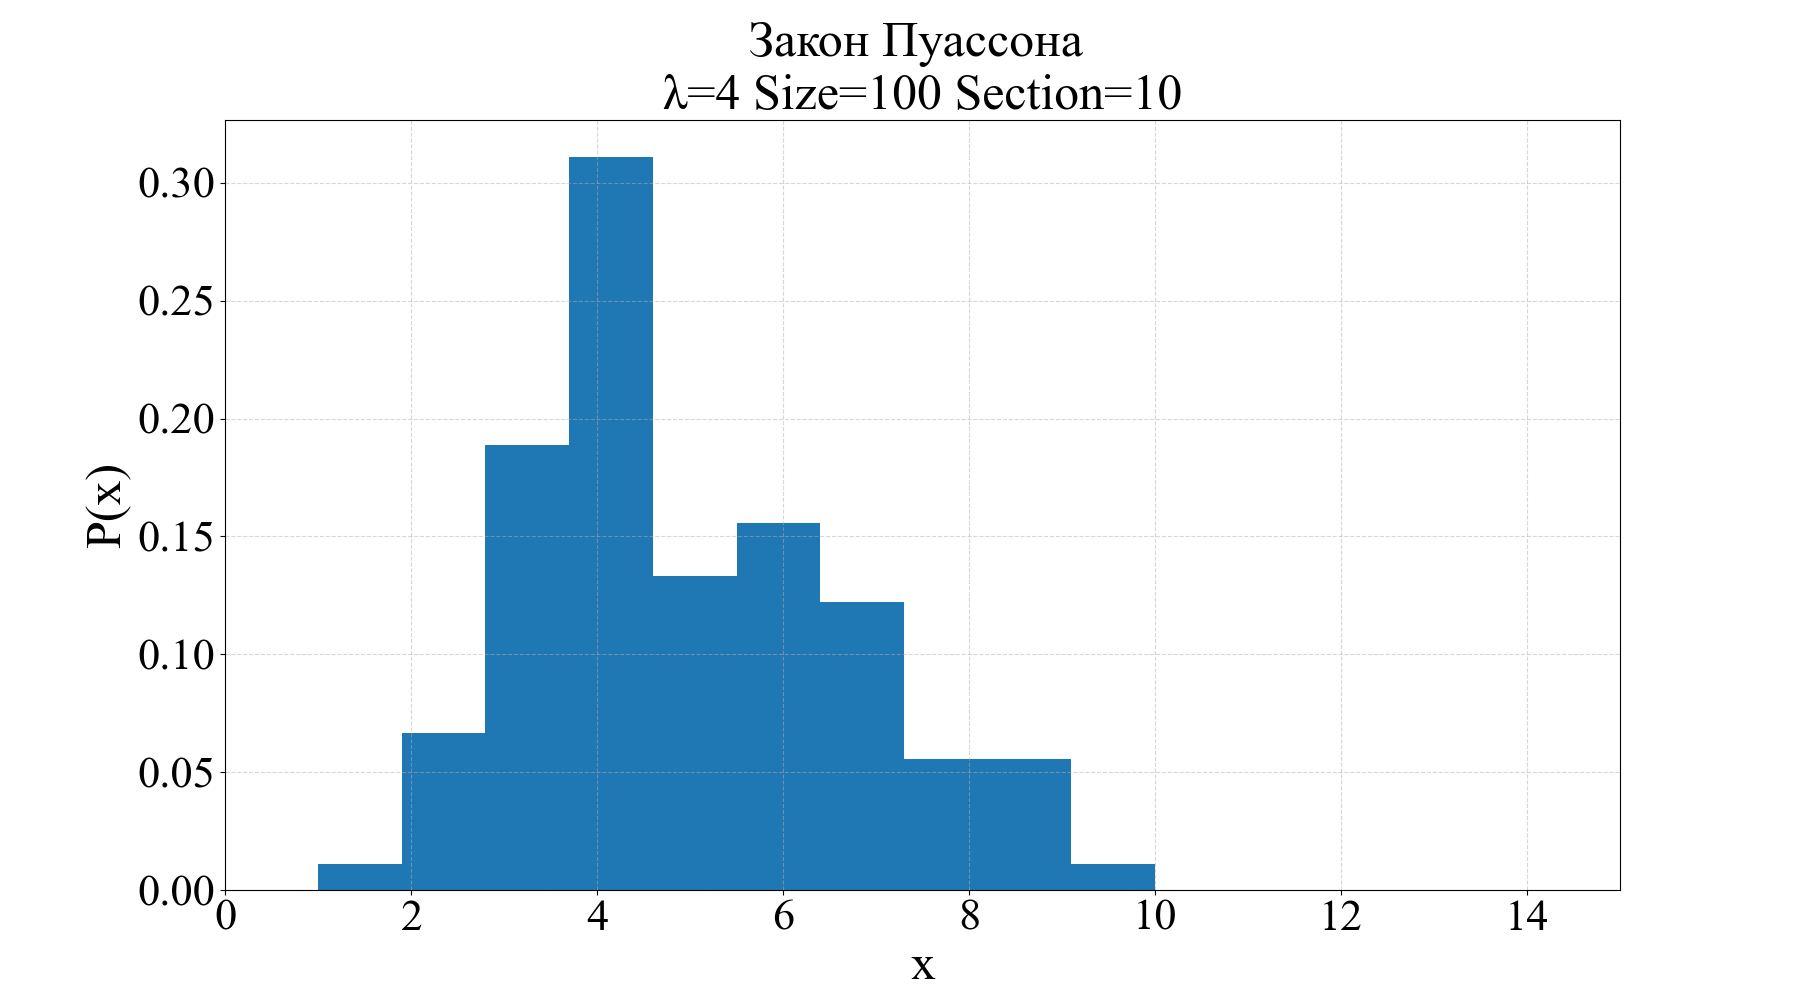
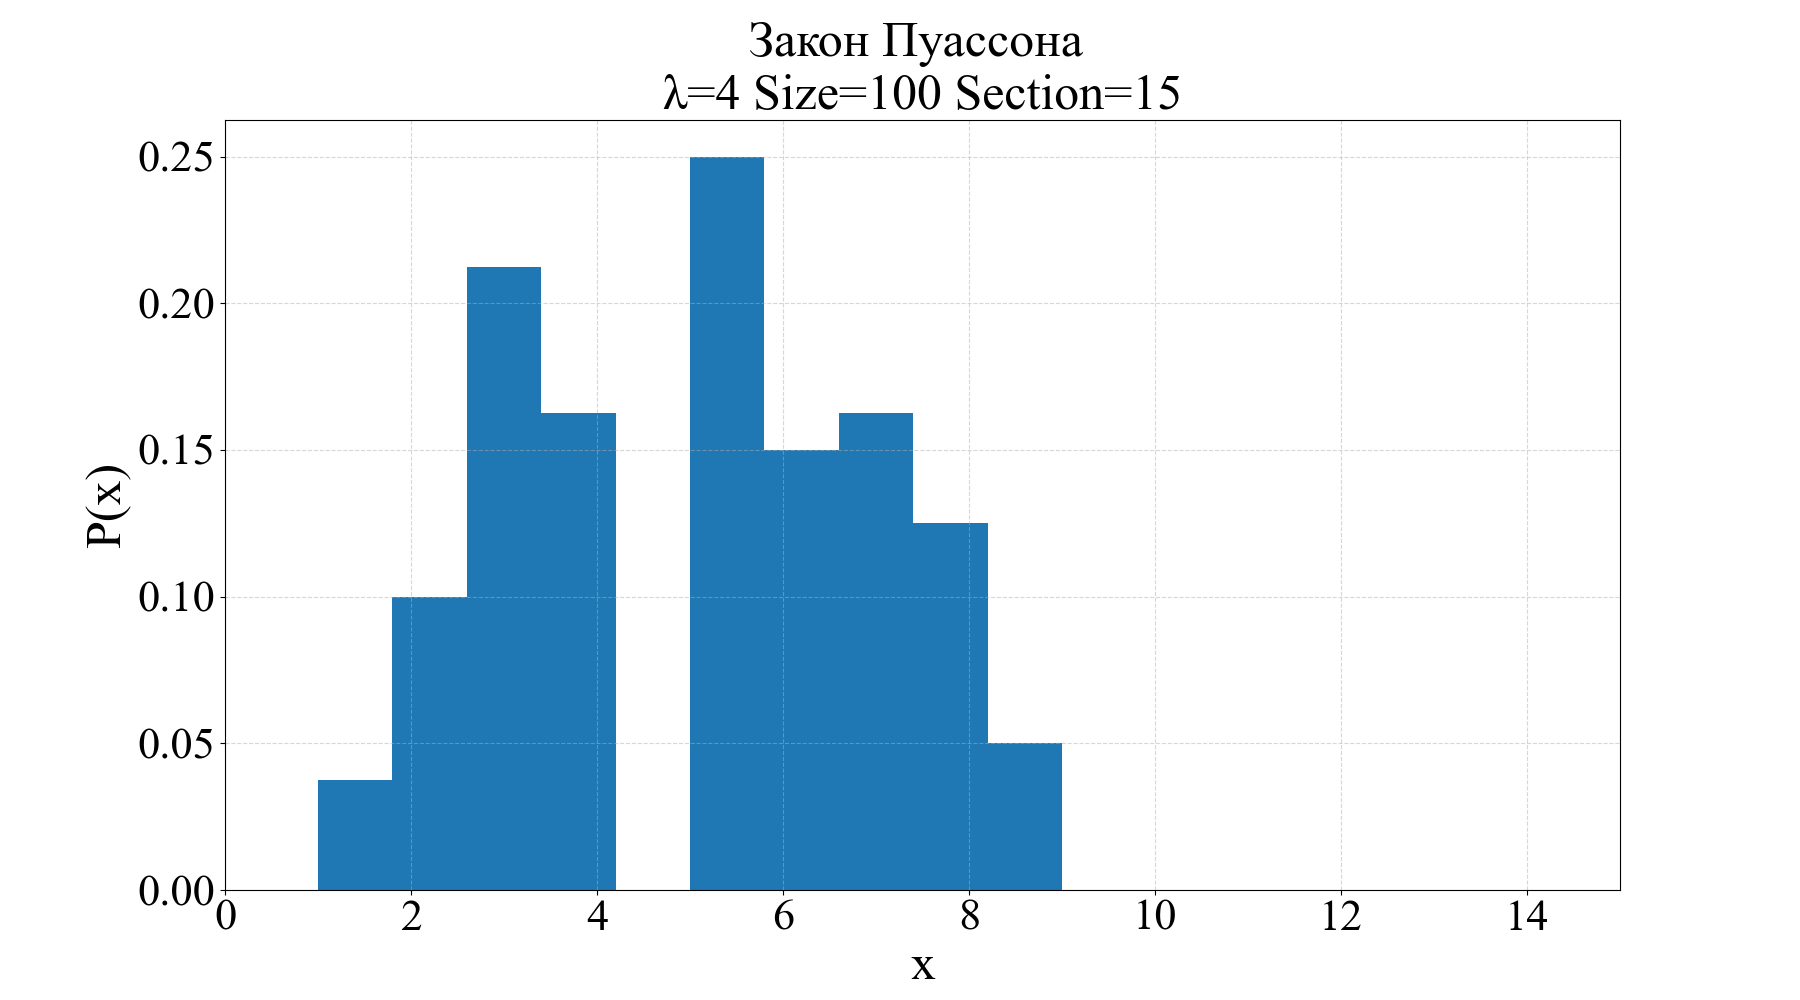
修正 错误的卡方分布计算

diff --git a/003 - lab2+/main.py b/003 - lab2+/main.py
@@ -10,9 +10,7 @@
 import numpy as np
 import pandas as pd
 import matplotlib.pyplot as plt
-from scipy.stats import chisquare
-from scipy import stats
-import st_method
+import scipy.stats
 import math
 
 
@@ -72,7 +70,7 @@ def irnpsn(mu: int, size: int) -> np.ndarray:
                 i_uniform = np.random.uniform(low=0, high=1)
                 p_t *= i_uniform
                 m += 1
-            arr_irnpsn.append(m)
+            arr_irnpsn.append(m - 1)
         else:
             m = np.random.normal(loc=mu, scale=mu, size=1)
             arr_irnpsn.append(m)
@@ -80,21 +78,52 @@ def irnpsn(mu: int, size: int) -> np.ndarray:
     return np.array(arr_irnpsn)
 
 
-def get_arr_exp_hist_poisson(mu: int, skip: int, size: int) -> np.ndarray:
+def get_poisson_chi_square(arr_source: np.ndarray, source_mu: int) -> int:
     """
-    生成标准泊松分布的数组
+    数组相对于标准泊松分布的卡方值
+    :param source_mu: 参数泊松分布数组的 mu
+    :param arr_source: 泊松分布数组
+    :return: 相对于泊松分布的卡方值
+    """
+    if arr_source is None:
+        raise ValueError
+
+    N = arr_source.size  # 元素数量
+    n = arr_source.max() - arr_source.min()  # 分的区间数
+    chi_square = 0  # 卡方值
+    arr_p_exp = get_arr_exp_hist_poisson(mu=source_mu, skip=n)
+    arr_p_obs = get_hist_arr(arr=arr_source, arr_cut_value=n) / N
+
+    for k in range(n):
+        chi_square += (arr_p_obs[k] - arr_p_exp[k]) ** 2 / arr_p_exp[k]
+
+    chi_square *= N
+
+    print('原数组:', arr_source, ' (Min:', arr_source.min(), ' Max:', arr_source.max(), ')')
+    print('元素数量 N:', N)
+    print('区间数 n:', n)
+    print('标准泊松频率数组:', arr_p_exp, ' shape:', arr_p_exp.shape, 'p_sum:', arr_p_exp.sum())
+    print('随机泊松频率数组:', arr_p_obs, ' shape:', arr_p_obs.shape, 'p_sum:', arr_p_obs.sum())
+    print('[EXP] Chi-square:', chi_square)
+    print('[OBS] Chi-square:', scipy.stats.chi2.isf(q=0.05, df=n - 1))
+
+    return chi_square
+
+
+def get_arr_exp_hist_poisson(mu: int, skip: int) -> np.ndarray:
+    """
+    生成标准泊松分布频率的数组
     :param skip: 分割为几个区间
     :param mu: 参数 int 类型
-    :param size: 数组大小
     :return: ndarry 类型的数组
     """
-    if mu < 0 or size < 0 or skip < 0:
+    if mu < 0 or skip < 0:
         raise ValueError
 
     arr_poisson = []
     for k in range(skip):
         val = ((math.e ** -mu) * (mu ** k)) / math.factorial(k)
-        arr_poisson.append(int(val * size))
+        arr_poisson.append(val)
 
     return np.array(arr_poisson)
 
@@ -123,7 +152,7 @@ def plot_poisson_hist(arr_poisson: np.ndarray, save_path: str):
     plt.hist(x=arr_poisson, bins=10, density=True)
     plt.grid(linestyle='--', alpha=0.5)
     plt.title('Закон Пуассона \n'
-              'λ=4 Size=100 Section=10',
+              'λ=4 Size=100 Section=' + arr_poisson.max().__str__(),
               fontdict={'family': FONT, 'size': TITLE_FONT_SIZE})
     plt.xlabel('x', fontdict={'family': FONT, 'size': LABEL_FONT_SIZE})
     plt.ylabel('P(x)', fontdict={'family': FONT, 'size': LABEL_FONT_SIZE})
@@ -135,39 +164,20 @@ def plot_poisson_hist(arr_poisson: np.ndarray, save_path: str):
 
 
 if __name__ == '__main__':
-    arr_cut_value = np.array(range(-1, 16))  # [0, 16)
+    print('>' * 50, '\nirnpoi(mu=4, size=100):')
+    arr_poi = irnpoi(mu=4, size=100)
+    chi_square = get_poisson_chi_square(arr_source=arr_poi, source_mu=4)
+    plot_poisson_hist(arr_poisson=arr_poi,
+                      save_path='./result/1_irnpoi.png')
+    print('-' * 50)
 
-    ############################################################################
+    #############################################################################
 
-    print('>' * 50, '\nnumpy 标准泊松分布：')
-    arr_exp_hist_poisson = get_arr_exp_hist_poisson(mu=4, skip=15, size=100)
-    print('\t分布数量：', arr_exp_hist_poisson)
-    print('-' * 50, '\n')
-
-    ############################################################################
-    #
-    # print('>' * 50, '\nirnpoi(mu=4, size=100):')
-    # arr_poi = irnpoi(mu=4, size=100)
-    # print('\tmin: ', arr_poi.min(), '\n\tmax: ', arr_poi.max())
-    # plot_poisson_hist(arr_poisson=arr_poi,
-    #                   save_path='./result/1_irnpoi.png')
-    #
-    # arr_obs_poi_hist = get_hist_arr(arr=arr_poi, arr_cut_value=arr_cut_value)
-    # print('\t分布数量：', arr_obs_poi_hist)
-    # chi_2 = chisquare(f_obs=arr_obs_poi_hist + 0.05, f_exp=arr_exp_hist + 0.05)
-    # print('chi_2: ', chi_2)
-    # #
-    # # ############################################################################
-    #
-    # print('\n\n', '>' * 50, '\nirnpoi(mu=4, size=100):')
-    # arr_psn = irnpsn(mu=4, size=100)
-    # print('\tmin: ', arr_psn.min(), '\n\tmax: ', arr_psn.max())
-    # plot_poisson_hist(arr_poisson=arr_psn,
-    #                   save_path='./result/2_irnpsn.png')
-    #
-    # arr_obs_psn_hist = get_hist_arr(arr=arr_psn, arr_cut_value=arr_cut_value)
-    # print('\t分布数量：', arr_obs_psn_hist)
-    # chi_2 = chisquare(f_obs=arr_obs_psn_hist + 0.05, f_exp=arr_exp_hist + 0.05)
-    # print('chi_2: ', chi_2)
+    print('\n\n', '>' * 50, '\nirnpoi(mu=4, size=100):')
+    arr_psn = irnpsn(mu=4, size=100)
+    chi_square = get_poisson_chi_square(arr_source=arr_psn, source_mu=4)
+    plot_poisson_hist(arr_poisson=arr_psn,
+                      save_path='./result/2_irnpsn.png')
+    print('-' * 50)
 
     pass
